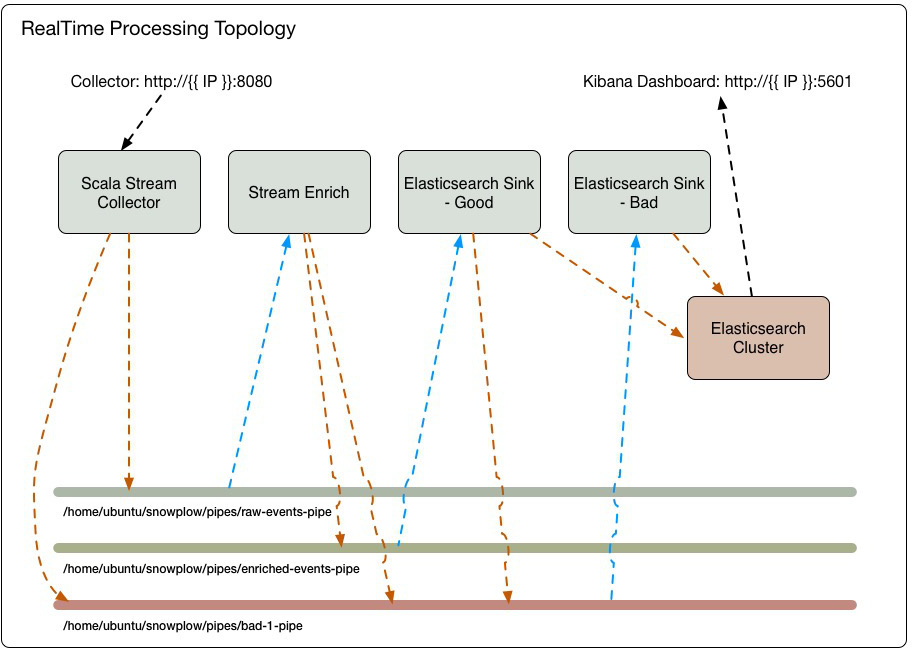
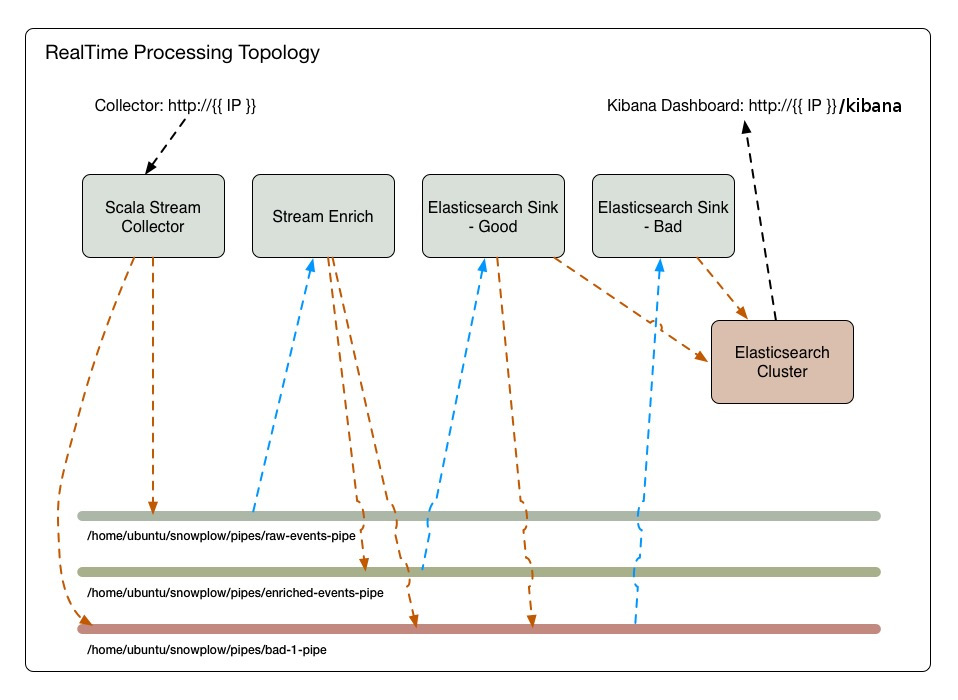
Deploy Caddy so that each app is on an authenticated sub-path (closes #12)

diff --git a/provisioning/resources/ui/js/components/Overview.tsx b/provisioning/resources/ui/js/components/Overview.tsx
@@ -23,10 +23,10 @@ export class Overview extends React.Component<{}, {}> {
 
   public render() {
 
-    var collector: string = 'http://' + window.location.hostname + ':8080';
-    var kibana: string = 'http://' + window.location.hostname + ':5601';
-    var head_plugin: string = 'http://' + window.location.hostname + ':9200/_plugin/head';
-    var elasticsearch: string = 'http://' + window.location.hostname + ':9200';
+    var collector: string = 'http://' + window.location.host;
+    var kibana: string = 'http://' + window.location.host + '/kibana/';
+    var head_plugin: string = 'http://' + window.location.host + '/elasticsearch/_plugin/head/';
+    var elasticsearch: string = 'http://' + window.location.host + '/elasticsearch';
 
     return (
       <div className="tab-content">

diff --git a/provisioning/resources/ui/js/components/Elasticsearch.tsx b/provisioning/resources/ui/js/components/Elasticsearch.tsx
@@ -42,8 +42,8 @@ export class Elasticsearch extends React.Component<{}, {}> {
         </p>
         <h3>Quicklinks:</h3>
         <ul>
-          <li>Link to <a href={'http://' + window.location.hostname + ':5601'}>Kibana</a></li>
-          <li>Link to the <a href={'http://' + window.location.hostname + ':9200/_plugin/head'}>Elasticsearch Head Plugin</a></li>
+          <li>Link to <a href={'http://' + window.location.host + '/kibana/'}>Kibana</a></li>
+          <li>Link to the <a href={'http://' + window.location.host + '/elasticsearch/_plugin/head/'}>Elasticsearch Head Plugin</a></li>
         </ul>
       </div>
     );

diff --git a/provisioning/resources/ui/js/components/IgluServer.tsx b/provisioning/resources/ui/js/components/IgluServer.tsx
@@ -29,7 +29,7 @@ export class IgluServer extends React.Component<{}, {}> {
         </p>
         <h3>Quicklinks:</h3>
         <ul>
-          <li>Link to <a href={'http://' + window.location.hostname + ':8081'}>Iglu Server management</a> page</li>
+          <li>Link to <a href={'http://' + window.location.host + '/iglu-server/'}>Iglu Server management</a> page</li>
         </ul>
       </div>
     );
